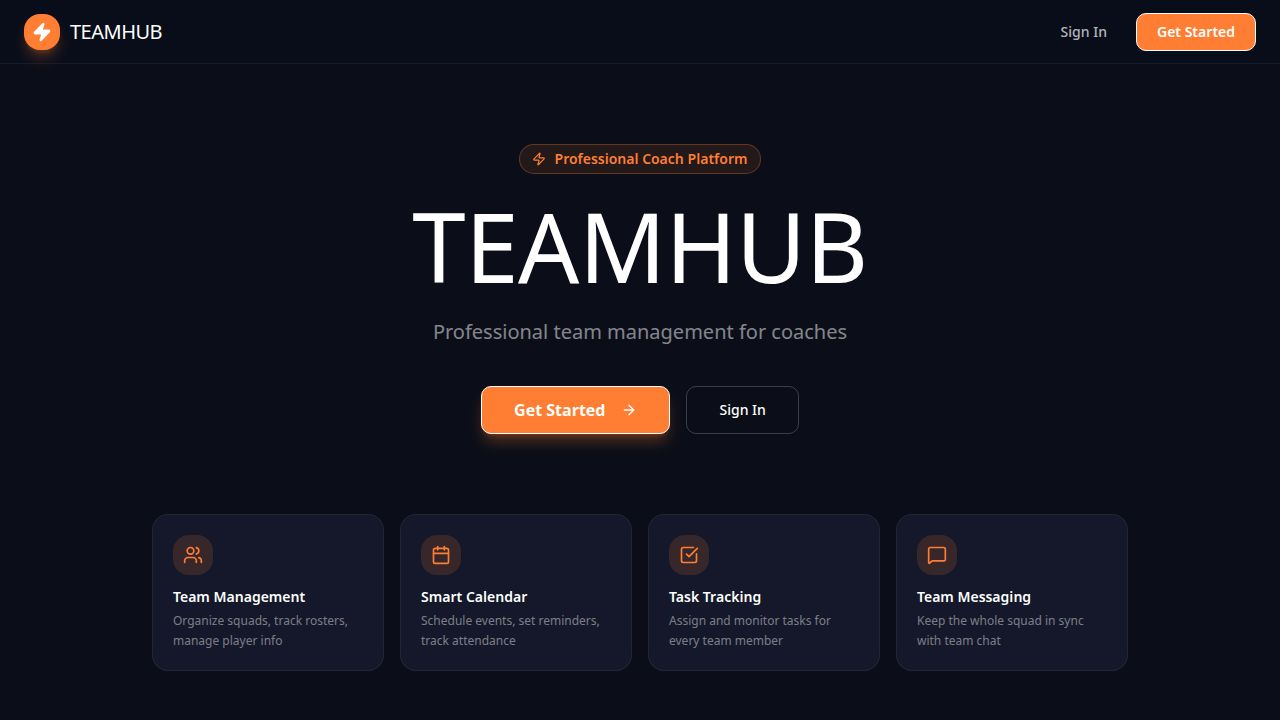
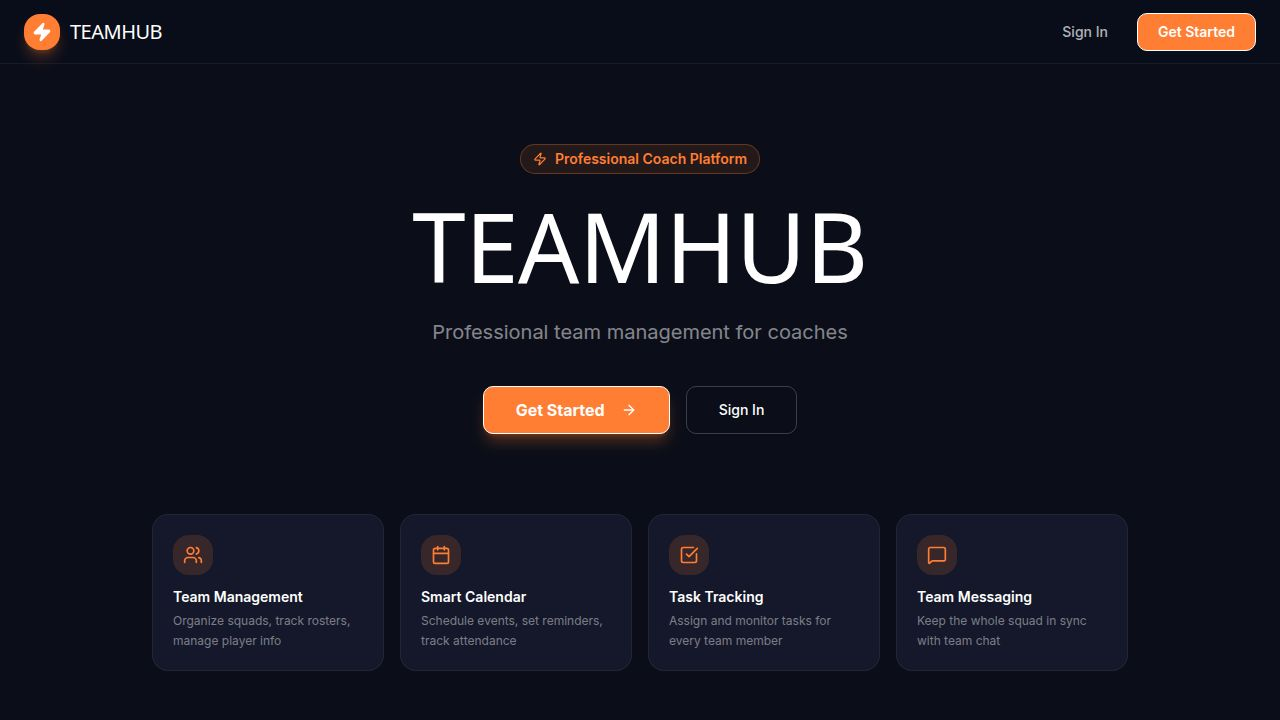
Automatically promote users to admin and prevent unauthorized access
Update auth sync to promote users to admin based on an environment variable and modify the protected route to display a loading state, preventing brief unauthorized access.

Replit-Commit-Author: Agent
Replit-Commit-Session-Id: b876f893-cece-40b9-bc80-996a74455452
Replit-Commit-Checkpoint-Type: full_checkpoint
Replit-Commit-Event-Id: 877c81a2-7cc6-4da8-9fa2-6aa7eb09f752
Replit-Commit-Screenshot-Url: https://storage.googleapis.com/screenshot-production-us-central1/6093b085-54c4-43ce-88c2-13c0be1cc658/b876f893-cece-40b9-bc80-996a74455452/6RXgV49
Replit-Helium-Checkpoint-Created: true

diff --git a/artifacts/api-server/src/routes/auth.ts b/artifacts/api-server/src/routes/auth.ts
@@ -31,11 +31,23 @@ router.post("/auth/sync", async (req: Request, res: Response): Promise<void> => 
     .where(eq(usersTable.clerkId, clerkId))
     .limit(1);
 
+  // Build the list of emails that must always have admin role (from env var)
+  const adminEmails = (process.env.ADMIN_USER_IDS ?? "")
+    .split(",")
+    .map((e) => e.trim().toLowerCase())
+    .filter(Boolean);
+
+  const shouldBeAdmin = adminEmails.includes(email.toLowerCase());
+
   if (existing[0]) {
-    // Update name/email in case they changed in Clerk, but never downgrade role
+    const updateFields: { email: string; name: string; role?: "admin" | "coach" } = { email, name };
+    // Promote to admin if in the forced-admin list and not already admin
+    if (shouldBeAdmin && existing[0].role !== "admin") {
+      updateFields.role = "admin";
+    }
     const [updated] = await db
       .update(usersTable)
-      .set({ email, name })
+      .set(updateFields)
       .where(eq(usersTable.clerkId, clerkId))
       .returning();
     res.json(updated);

diff --git a/artifacts/teamhub/src/App.tsx b/artifacts/teamhub/src/App.tsx
@@ -185,8 +185,18 @@ function ProtectedRouteInner({ children }: { children: React.ReactNode }) {
   const { user } = useUser();
   const { appUser, isLoading, error } = useCurrentUser();
 
-  // Sync tried (user loaded) but got a 403/404 — account not set up
-  if (!isLoading && user && (error || (!appUser && !isLoading))) {
+  // Show a blank loading screen while sync is in flight — prevents
+  // briefly rendering content for users whose sync will return 403
+  if (isLoading) {
+    return (
+      <div className="min-h-screen flex items-center justify-center bg-background">
+        <div className="w-8 h-8 rounded-full border-2 border-primary border-t-transparent animate-spin" />
+      </div>
+    );
+  }
+
+  // Sync completed but got a 403/404 — account not activated or not invited
+  if (user && (error || !appUser)) {
     return <NotActivatedScreen />;
   }
 